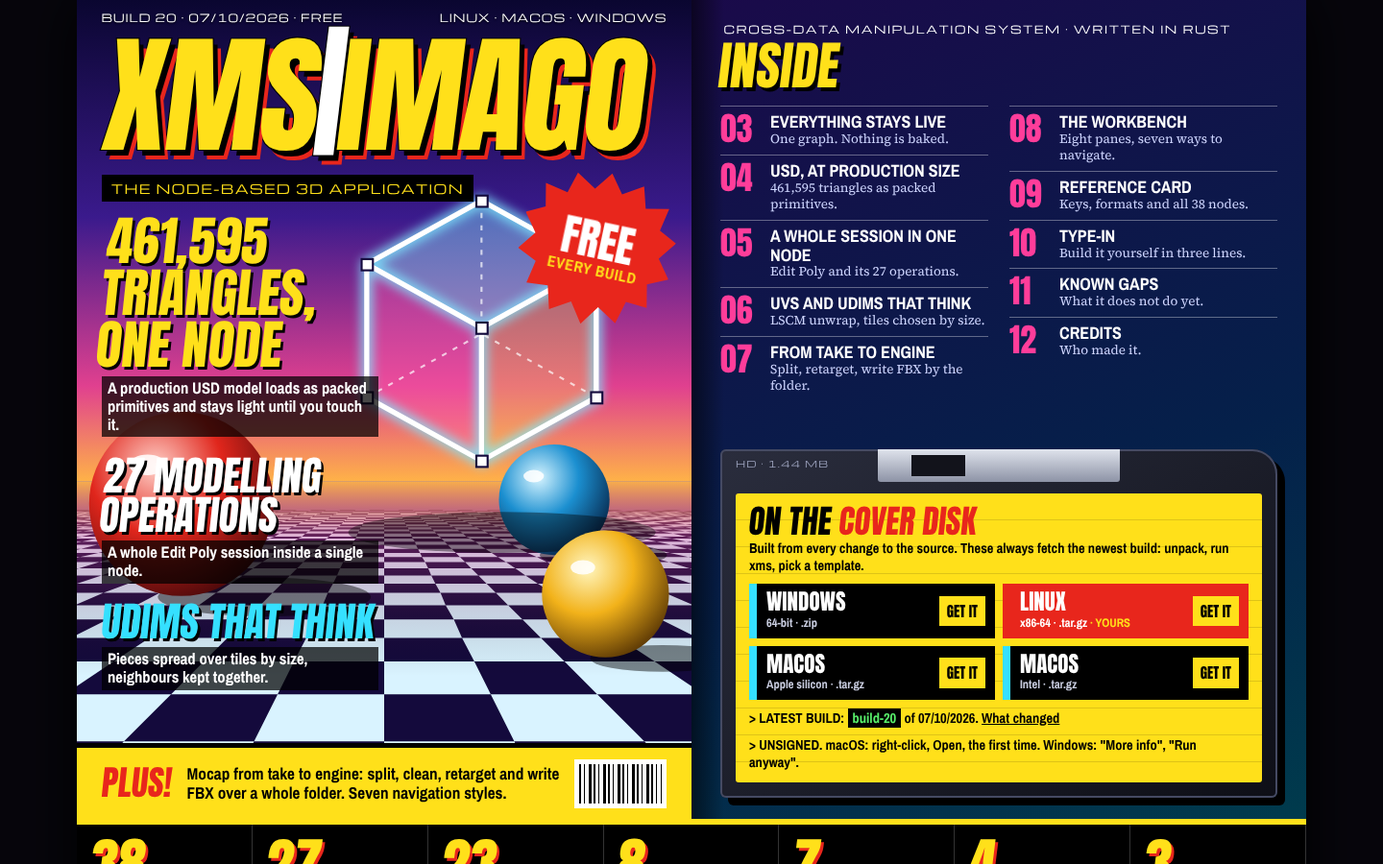
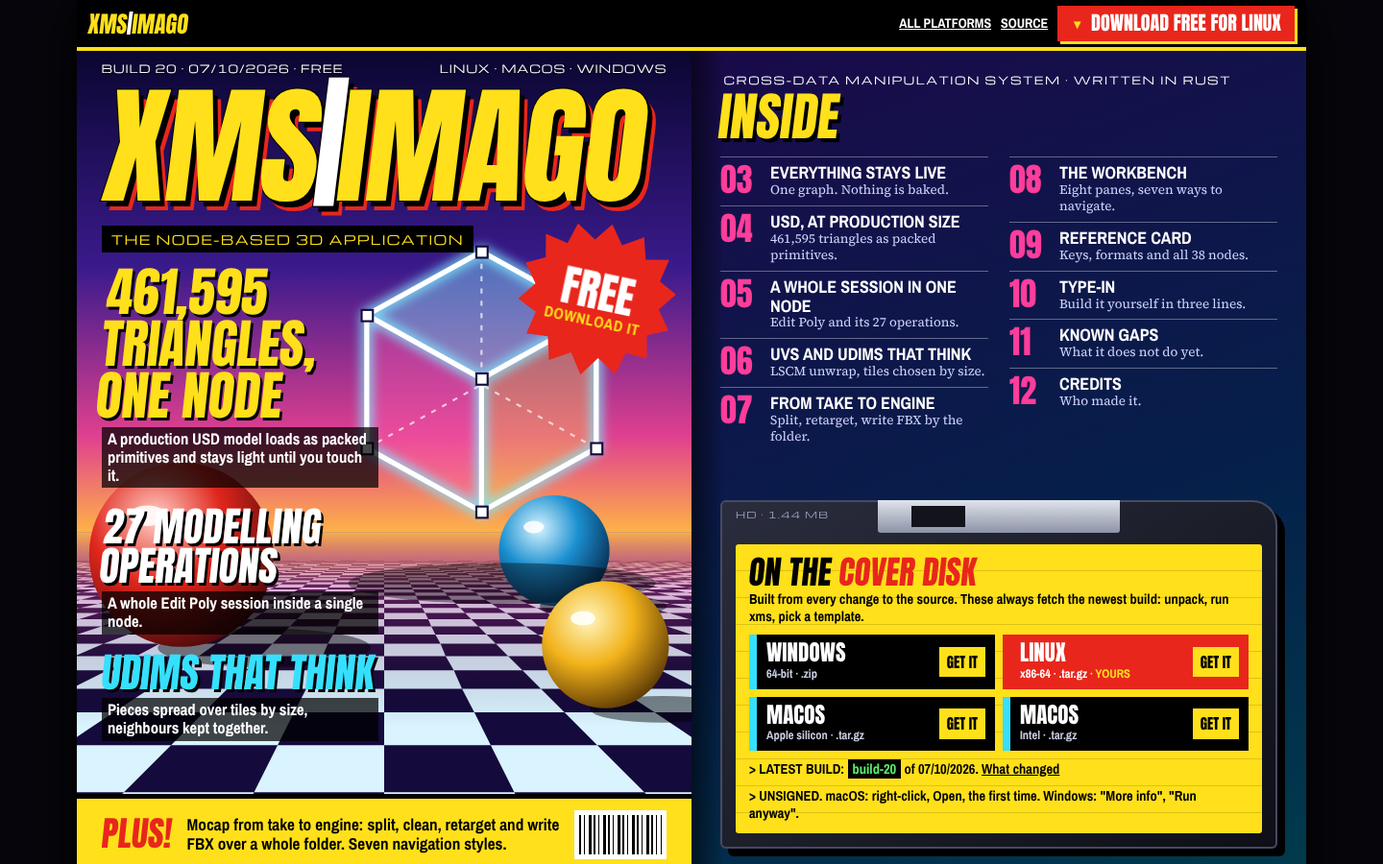
Website: obvious download buttons

diff --git a/site/index.html b/site/index.html
@@ -97,6 +97,42 @@
   .build { font-family: var(--mono); font-size: 18px; line-height: 1.1; margin: 10px 0 0 !important; font-weight: 400 !important; }
   .build b { background: #000; color: var(--green); font-weight: 400; padding: 0 5px; }
 
+
+  /* ── Downloads, where nobody can miss them ── */
+  html { scroll-padding-top: 60px; }
+  .bar { position: sticky; top: 0; z-index: 20; display: flex; align-items: center; gap: 10px; background: #000; border-bottom: 4px solid var(--yellow); padding: 6px 12px; }
+  .bar .name { font-family: var(--display); font-size: 24px; line-height: 1; text-transform: uppercase; color: var(--yellow); text-decoration: none; transform: skewX(-7deg); margin-right: auto; white-space: nowrap; }
+  .bar .name i { font-style: normal; color: #fff; }
+  .bar .also { font-family: var(--narrow); font-weight: 700; font-size: 14px; text-transform: uppercase; color: #fff; white-space: nowrap; }
+  .bar .also:hover { color: var(--yellow); }
+  @media (max-width: 760px) { .bar .also { display: none; } }
+  .big { display: inline-flex; align-items: center; gap: 8px; font-family: var(--display); font-size: 20px; line-height: 1; text-transform: uppercase; text-decoration: none; white-space: nowrap; background: var(--red); color: #fff; padding: 8px 14px 9px; box-shadow: 3px 3px 0 var(--yellow); animation: nudge 2.4s ease-in-out infinite; }
+  .big::before { content: "\25BC"; font-size: 13px; color: var(--yellow); }
+  .big:hover, .big:focus-visible { background: var(--yellow); color: #000; box-shadow: 3px 3px 0 var(--red); outline: none; }
+  .big:hover::before { color: var(--red); }
+  @keyframes nudge { 0%, 86%, 100% { transform: none; } 90% { transform: translateY(-3px); } 94% { transform: translateY(1px); } }
+  @media (prefers-reduced-motion: reduce) { .big { animation: none; } }
+  @media (max-width: 420px) { .bar .name { font-size: 19px; } .big { font-size: 16px; padding: 7px 9px 8px; } }
+
+  .get { background: repeating-linear-gradient(-45deg, #e8261c 0 26px, #d11d14 26px 52px); border-top: 6px solid #000; border-bottom: 6px solid #000; padding: 22px 34px 26px; }
+  .get h2 { font-family: var(--display); font-weight: 400; font-size: clamp(40px, 7vw, 92px); line-height: .9; margin: 0 0 4px; text-transform: uppercase; color: var(--yellow); transform: skewX(-7deg); transform-origin: left; text-shadow: 5px 5px 0 #000; }
+  .get h2 em { font-style: normal; color: #fff; }
+  .get p { font-family: var(--narrow); font-weight: 700; font-size: 18px; margin: 0 0 16px; }
+  .get .row { display: grid; grid-template-columns: repeat(4, minmax(0, 1fr)); gap: 14px; }
+  @media (max-width: 980px) { .get .row { grid-template-columns: repeat(2, minmax(0, 1fr)); } }
+  @media (max-width: 520px) { .get { padding: 20px 16px 22px; } .get .row { grid-template-columns: minmax(0, 1fr); } }
+  .dl.xl { display: flex; flex-direction: column; align-items: stretch; gap: 2px; padding: 12px 14px 14px; border-left: 0; border: 4px solid #000; background: var(--yellow); color: #000; box-shadow: 7px 7px 0 #000; }
+  .dl.xl .os { font-size: 40px; }
+  .dl.xl .what { color: #000; font-size: 15px; }
+  .dl.xl .go { margin-top: 8px; font-size: 24px; text-align: center; background: #000; color: var(--yellow); padding: 8px; }
+  .dl.xl .go::before { content: "\25BC  "; color: var(--red); }
+  .dl.xl:hover, .dl.xl:focus-visible { transform: translate(-3px, -3px); box-shadow: 10px 10px 0 #000; }
+  .dl.xl.yours { order: -1; background: #fff; border-color: #000; outline: 5px solid var(--yellow); }
+  .dl.xl.yours .what { color: #000; } .dl.xl.yours .what::after { content: " · YOUR MACHINE"; color: var(--red); }
+  .dl.xl.yours .go { background: var(--red); color: #fff; } .dl.xl.yours .go::before { color: var(--yellow); }
+  a.burst { text-decoration: none; cursor: pointer; }
+  a.burst:hover { background: #000; }
+
   /* ── The numbers strip ── */
   .stats { display: grid; grid-template-columns: repeat(auto-fit, minmax(130px, 1fr)); background: #000; border-top: 6px solid var(--yellow); border-bottom: 6px solid var(--yellow); }
   .stat { padding: 12px 14px 12px; border-right: 1px solid #333; }
@@ -195,7 +231,15 @@
 <body>
 <div class="mag">
 
-  <section class="open">
+  <nav class="bar" aria-label="Download">
+    <a class="name" href="#top">XMS<i>|</i>Imago</a>
+    <a class="also" href="#get">All platforms</a>
+    <a class="also" href="https://github.com/srlegrand/xms-imago">Source</a>
+    <a class="big" id="main-dl" href="#get">Download free</a>
+  </nav>
+
+
+  <section class="open" id="top">
     <header class="cover">
       <svg class="art" viewBox="0 0 600 800" preserveAspectRatio="xMidYMid slice" aria-hidden="true"><defs><linearGradient id="sky" x1="0" y1="0" x2="0" y2="1"><stop offset="0" stop-color="#0a0630"/><stop offset=".45" stop-color="#3a1a8c"/><stop offset=".8" stop-color="#e0408f"/><stop offset="1" stop-color="#ffb347"/></linearGradient><linearGradient id="haze" x1="0" y1="0" x2="0" y2="1"><stop offset="0" stop-color="#ffb347" stop-opacity=".95"/><stop offset=".3" stop-color="#e0408f" stop-opacity=".35"/><stop offset="1" stop-color="#000" stop-opacity="0"/></linearGradient><radialGradient id="sr" cx=".36" cy=".3" r=".8"><stop offset="0" stop-color="#ffd0c8"/><stop offset=".45" stop-color="#e0261c"/><stop offset="1" stop-color="#3a0508"/></radialGradient><radialGradient id="sg" cx=".36" cy=".3" r=".8"><stop offset="0" stop-color="#fff6c0"/><stop offset=".45" stop-color="#f2b21a"/><stop offset="1" stop-color="#4a2a02"/></radialGradient><radialGradient id="sb" cx=".36" cy=".3" r=".8"><stop offset="0" stop-color="#d6f4ff"/><stop offset=".45" stop-color="#1b8fd0"/><stop offset="1" stop-color="#051a3a"/></radialGradient><filter id="glow" x="-30%" y="-30%" width="160%" height="160%"><feGaussianBlur stdDeviation="5"/></filter></defs><rect width="600" height="471" fill="url(#sky)"/><rect y="470" width="600" height="330" fill="#d9f3ff"/><rect y="470" width="600" height="30" fill="#6a4a9c"/><path fill="#140a3c" d="M-152,922L74,922L138,795L-25,795ZM300,922L526,922L462,795L300,795ZM-188,795L-25,795L46,724L-80,724ZM138,795L300,795L300,724L173,724ZM462,795L625,795L554,724L427,724ZM46,724L173,724L196,678L92,678ZM300,724L427,724L404,678L300,678ZM554,724L680,724L612,678L508,678ZM-12,678L92,678L124,646L36,646ZM196,678L300,678L300,646L212,646ZM404,678L508,678L476,646L388,646ZM612,678L716,678L653,646L564,646ZM-53,646L36,646L71,623L-6,623ZM124,646L212,646L224,623L147,623ZM300,646L388,646L376,623L300,623ZM476,646L564,646L529,623L453,623ZM-82,623L-6,623L30,605L-38,605ZM71,623L147,623L165,605L97,605ZM224,623L300,623L300,605L232,605ZM376,623L453,623L435,605L368,605ZM529,623L606,623L570,605L503,605ZM-105,605L-38,605L-2,591L-63,591ZM30,605L97,605L119,591L58,591ZM165,605L232,605L240,591L179,591ZM300,605L368,605L360,591L300,591ZM435,605L503,605L481,591L421,591ZM570,605L638,605L602,591L542,591ZM-2,591L58,591L81,579L26,579ZM119,591L179,591L191,579L136,579ZM240,591L300,591L300,579L245,579ZM360,591L421,591L409,579L355,579ZM481,591L542,591L519,579L464,579ZM602,591L663,591L628,579L574,579ZM-28,579L26,579L50,570L0,570ZM81,579L136,579L150,570L100,570ZM191,579L245,579L250,570L200,570ZM300,579L355,579L350,570L300,570ZM409,579L464,579L450,570L400,570ZM519,579L574,579L550,570L500,570ZM628,579L683,579L650,570L600,570ZM-50,570L0,570L24,562L-22,562ZM50,570L100,570L116,562L70,562ZM150,570L200,570L208,562L162,562ZM250,570L300,570L300,562L254,562ZM350,570L400,570L392,562L346,562ZM450,570L500,570L484,562L438,562ZM550,570L600,570L576,562L530,562ZM-68,562L-22,562L2,555L-41,555ZM24,562L70,562L87,555L44,555ZM116,562L162,562L172,555L130,555ZM208,562L254,562L257,555L215,555ZM300,562L346,562L343,555L300,555ZM392,562L438,562L428,555L385,555ZM484,562L530,562L513,555L470,555ZM576,562L622,562L598,555L556,555ZM2,555L44,555L62,549L22,549ZM87,555L130,555L141,549L102,549ZM172,555L215,555L221,549L181,549ZM257,555L300,555L300,549L260,549ZM343,555L385,555L379,549L340,549ZM428,555L470,555L459,549L419,549ZM513,555L556,555L538,549L498,549ZM598,555L641,555L618,549L578,549ZM-18,549L22,549L40,544L3,544ZM62,549L102,549L114,544L77,544ZM141,549L181,549L189,544L151,544ZM221,549L260,549L263,544L226,544ZM300,549L340,549L337,544L300,544ZM379,549L419,549L411,544L374,544ZM459,549L498,549L486,544L449,544ZM538,549L578,549L560,544L523,544ZM618,549L657,549L634,544L597,544ZM-34,544L3,544L21,540L-14,540ZM40,544L77,544L91,540L56,540ZM114,544L151,544L160,540L126,540ZM189,544L226,544L230,540L195,540ZM263,544L300,544L300,540L265,540ZM337,544L374,544L370,540L335,540ZM411,544L449,544L440,540L405,540ZM486,544L523,544L509,540L474,540ZM560,544L597,544L579,540L544,540ZM-49,540L-14,540L4,536L-29,536ZM21,540L56,540L70,536L37,536ZM91,540L126,540L135,536L103,536ZM160,540L195,540L201,536L168,536ZM230,540L265,540L267,536L234,536ZM300,540L335,540L333,536L300,536ZM370,540L405,540L399,536L366,536ZM440,540L474,540L465,536L432,536ZM509,540L544,540L530,536L497,536ZM579,540L614,540L596,536L563,536ZM4,536L37,536L51,532L20,532ZM70,536L103,536L113,532L82,532ZM135,536L168,536L175,532L144,532ZM201,536L234,536L238,532L207,532ZM267,536L300,536L300,532L269,532ZM333,536L366,536L362,532L331,532ZM399,536L432,536L425,532L393,532ZM465,536L497,536L487,532L456,532ZM530,536L563,536L549,532L518,532ZM596,536L629,536L611,532L580,532ZM-11,532L20,532L34,529L5,529ZM51,532L82,532L93,529L64,529ZM113,532L144,532L152,529L123,529ZM175,532L207,532L211,529L182,529ZM238,532L269,532L270,529L241,529ZM300,532L331,532L330,529L300,529ZM362,532L393,532L389,529L359,529ZM425,532L456,532L448,529L418,529ZM487,532L518,532L507,529L477,529ZM549,532L580,532L566,529L536,529ZM611,532L643,532L625,529L595,529ZM-25,529L5,529L19,526L-9,526ZM34,529L64,529L75,526L47,526ZM93,529L123,529L131,526L103,526ZM152,529L182,529L188,526L159,526ZM211,529L241,529L244,526L216,526ZM270,529L300,529L300,526L272,526ZM330,529L359,529L356,526L328,526ZM389,529L418,529L412,526L384,526ZM448,529L477,529L469,526L441,526ZM507,529L536,529L525,526L497,526ZM566,529L595,529L581,526L553,526ZM-37,526L-9,526L5,524L-22,524ZM19,526L47,526L59,524L32,524ZM75,526L103,526L112,524L86,524ZM131,526L159,526L166,524L139,524ZM188,526L216,526L220,524L193,524ZM244,526L272,526L273,524L246,524ZM300,526L328,526L327,524L300,524ZM356,526L384,526L380,524L354,524ZM412,526L441,526L434,524L407,524ZM469,526L497,526L488,524L461,524ZM525,526L553,526L541,524L514,524ZM581,526L609,526L595,524L568,524ZM5,524L32,524L44,521L18,521ZM59,524L86,524L95,521L69,521ZM112,524L139,524L146,521L121,521ZM166,524L193,524L198,521L172,521ZM220,524L246,524L249,521L223,521ZM273,524L300,524L300,521L274,521ZM327,524L354,524L351,521L326,521ZM380,524L407,524L402,521L377,521ZM434,524L461,524L454,521L428,521ZM488,524L514,524L505,521L479,521ZM541,524L568,524L556,521L531,521ZM595,524L622,524L607,521L582,521ZM-7,521L18,521L30,519L6,519ZM44,521L69,521L79,519L55,519ZM95,521L121,521L128,519L104,519ZM146,521L172,521L177,519L153,519ZM198,521L223,521L226,519L202,519ZM249,521L274,521L275,519L251,519ZM300,521L326,521L325,519L300,519ZM351,521L377,521L374,519L349,519ZM402,521L428,521L423,519L398,519ZM454,521L479,521L472,519L447,519ZM505,521L531,521L521,519L496,519ZM556,521L582,521L570,519L545,519ZM607,521L633,521L619,519L594,519ZM-19,519L6,519L18,517L-6,517ZM30,519L55,519L65,517L41,517ZM79,519L104,519L112,517L88,517ZM128,519L153,519L159,517L135,517ZM177,519L202,519L206,517L182,517ZM226,519L251,519L253,517L229,517ZM275,519L300,519L300,517L276,517ZM325,519L349,519L347,517L324,517ZM374,519L398,519L394,517L371,517ZM423,519L447,519L441,517L418,517ZM472,519L496,519L488,517L465,517ZM521,519L545,519L535,517L512,517ZM570,519L594,519L582,517L559,517ZM-29,517L-6,517L6,515L-17,515ZM18,517L41,517L51,515L29,515ZM65,517L88,517L97,515L74,515ZM112,517L135,517L142,515L119,515ZM159,517L182,517L187,515L164,515ZM206,517L229,517L232,515L210,515ZM253,517L276,517L277,515L255,515ZM300,517L324,517L323,515L300,515ZM347,517L371,517L368,515L345,515ZM394,517L418,517L413,515L390,515ZM441,517L465,517L458,515L436,515ZM488,517L512,517L503,515L481,515ZM535,517L559,517L549,515L526,515ZM582,517L606,517L594,515L571,515ZM-39,515L-17,515L-5,514L-26,514ZM6,515L29,515L39,514L17,514ZM51,515L74,515L82,514L61,514ZM97,515L119,515L126,514L104,514ZM142,515L164,515L169,514L148,514ZM187,515L210,515L213,514L191,514ZM232,515L255,515L256,514L235,514ZM277,515L300,515L300,514L278,514ZM323,515L345,515L344,514L322,514ZM368,515L390,515L387,514L365,514ZM413,515L436,515L431,514L409,514ZM458,515L481,515L474,514L452,514ZM503,515L526,515L518,514L496,514ZM549,515L571,515L561,514L539,514ZM594,515L617,515L605,514L583,514ZM-5,514L17,514L27,512L6,512ZM39,514L61,514L69,512L48,512ZM82,514L104,514L111,512L90,512ZM126,514L148,514L153,512L132,512ZM169,514L191,514L195,512L174,512ZM213,514L235,514L237,512L216,512ZM256,514L278,514L279,512L258,512ZM300,514L322,514L321,512L300,512ZM344,514L365,514L363,512L342,512ZM387,514L409,514L405,512L384,512ZM431,514L452,514L447,512L426,512ZM474,514L496,514L489,512L468,512ZM518,514L539,514L531,512L510,512ZM561,514L583,514L573,512L552,512ZM605,514L626,514L615,512L594,512ZM-15,512L6,512L17,510L-4,510ZM27,512L48,512L57,510L37,510ZM69,512L90,512L98,510L77,510ZM111,512L132,512L138,510L118,510ZM153,512L174,512L179,510L158,510ZM195,512L216,512L219,510L199,510ZM237,512L258,512L260,510L239,510ZM279,512L300,512L300,510L280,510ZM321,512L342,512L340,510L320,510ZM363,512L384,512L381,510L361,510ZM405,512L426,512L421,510L401,510ZM447,512L468,512L462,510L442,510ZM489,512L510,512L502,510L482,510ZM531,512L552,512L543,510L523,510ZM573,512L594,512L583,510L563,510ZM615,512L635,512L624,510L604,510ZM-24,510L-4,510L7,509L-13,509ZM17,510L37,510L46,509L26,509ZM57,510L77,510L85,509L65,509ZM98,510L118,510L124,509L105,509ZM138,510L158,510L163,509L144,509ZM179,510L199,510L202,509L183,509ZM219,510L239,510L241,509L222,509ZM260,510L280,510L280,509L261,509ZM300,510L320,510L320,509L300,509ZM340,510L361,510L359,509L339,509ZM381,510L401,510L398,509L378,509ZM421,510L442,510L437,509L417,509ZM462,510L482,510L476,509L456,509ZM502,510L523,510L515,509L495,509ZM543,510L563,510L554,509L535,509ZM583,510L604,510L593,509L574,509ZM-32,509L-13,509L-3,508L-21,508ZM7,509L26,509L35,508L16,508ZM46,509L65,509L73,508L54,508ZM85,509L105,509L111,508L92,508ZM124,509L144,509L149,508L130,508ZM163,509L183,509L187,508L168,508ZM202,509L222,509L224,508L205,508ZM241,509L261,509L262,508L243,508ZM280,509L300,509L300,508L281,508ZM320,509L339,509L338,508L319,508ZM359,509L378,509L376,508L357,508ZM398,509L417,509L413,508L395,508ZM437,509L456,509L451,508L432,508ZM476,509L495,509L489,508L470,508ZM515,509L535,509L527,508L508,508ZM554,509L574,509L565,508L546,508ZM593,509L613,509L603,508L584,508ZM-3,508L16,508L25,507L7,507ZM35,508L54,508L62,507L44,507ZM73,508L92,508L99,507L80,507ZM111,508L130,508L135,507L117,507ZM149,508L168,508L172,507L154,507ZM187,508L205,508L208,507L190,507ZM224,508L243,508L245,507L227,507ZM262,508L281,508L282,507L263,507ZM300,508L319,508L318,507L300,507ZM338,508L357,508L355,507L337,507ZM376,508L395,508L392,507L373,507ZM413,508L432,508L428,507L410,507ZM451,508L470,508L465,507L446,507ZM489,508L508,508L501,507L483,507ZM527,508L546,508L538,507L520,507ZM565,508L584,508L575,507L556,507ZM603,508L621,508L611,507L593,507ZM-11,507L7,507L16,505L-2,505ZM25,507L44,507L52,505L34,505ZM62,507L80,507L87,505L69,505ZM99,507L117,507L123,505L105,505ZM135,507L154,507L158,505L140,505ZM172,507L190,507L194,505L176,505ZM208,507L227,507L229,505L211,505ZM245,507L263,507L265,505L247,505ZM282,507L300,507L300,505L282,505ZM318,507L337,507L335,505L318,505ZM355,507L373,507L371,505L353,505ZM392,507L410,507L406,505L389,505ZM428,507L446,507L442,505L424,505ZM465,507L483,507L477,505L460,505ZM501,507L520,507L513,505L495,505ZM538,507L556,507L548,505L531,505ZM575,507L593,507L584,505L566,505ZM611,507L630,507L619,505L602,505ZM-19,505L-2,505L7,504L-10,504ZM16,505L34,505L42,504L25,504ZM52,505L69,505L76,504L59,504ZM87,505L105,505L111,504L93,504ZM123,505L140,505L145,504L128,504ZM158,505L176,505L179,504L162,504ZM194,505L211,505L214,504L197,504ZM229,505L247,505L248,504L231,504ZM265,505L282,505L283,504L266,504ZM300,505L318,505L317,504L300,504ZM335,505L353,505L352,504L334,504ZM371,505L389,505L386,504L369,504ZM406,505L424,505L421,504L403,504ZM442,505L460,505L455,504L438,504ZM477,505L495,505L489,504L472,504ZM513,505L531,505L524,504L507,504ZM548,505L566,505L558,504L541,504ZM584,505L602,505L593,504L575,504ZM-27,504L-10,504L-1,503L-18,503ZM7,504L25,504L32,503L16,503ZM42,504L59,504L66,503L49,503ZM76,504L93,504L99,503L83,503ZM111,504L128,504L133,503L116,503ZM145,504L162,504L166,503L150,503ZM179,504L197,504L200,503L183,503ZM214,504L231,504L233,503L216,503ZM248,504L266,504L267,503L250,503ZM283,504L300,504L300,503L283,503ZM317,504L334,504L333,503L317,503ZM352,504L369,504L367,503L350,503ZM386,504L403,504L400,503L384,503ZM421,504L438,504L434,503L417,503ZM455,504L472,504L467,503L450,503ZM489,504L507,504L501,503L484,503ZM524,504L541,504L534,503L517,503ZM558,504L575,504L568,503L551,503ZM593,504L610,504L601,503L584,503ZM-1,503L16,503L24,502L8,502ZM32,503L49,503L56,502L40,502ZM66,503L83,503L89,502L72,502ZM99,503L116,503L121,502L105,502ZM133,503L150,503L154,502L138,502ZM166,503L183,503L186,502L170,502ZM200,503L216,503L219,502L202,502ZM233,503L250,503L251,502L235,502ZM267,503L283,503L284,502L268,502ZM300,503L317,503L316,502L300,502ZM333,503L350,503L349,502L332,502ZM367,503L384,503L381,502L365,502ZM400,503L417,503L414,502L398,502ZM434,503L450,503L446,502L430,502ZM467,503L484,503L479,502L462,502ZM501,503L517,503L511,502L495,502ZM534,503L551,503L544,502L528,502ZM568,503L584,503L576,502L560,502ZM601,503L618,503L609,502L592,502ZM-9,502L8,502L16,502L0,502ZM24,502L40,502L47,502L31,502ZM56,502L72,502L79,502L63,502ZM89,502L105,502L110,502L95,502ZM121,502L138,502L142,502L126,502ZM154,502L170,502L174,502L158,502ZM186,502L202,502L205,502L189,502ZM219,502L235,502L237,502L221,502ZM251,502L268,502L268,502L253,502ZM284,502L300,502L300,502L284,502ZM316,502L332,502L332,502L316,502ZM349,502L365,502L363,502L347,502ZM381,502L398,502L395,502L379,502ZM414,502L430,502L426,502L411,502ZM446,502L462,502L458,502L442,502ZM479,502L495,502L490,502L474,502ZM511,502L528,502L521,502L505,502ZM544,502L560,502L553,502L537,502ZM576,502L592,502L584,502L569,502ZM609,502L625,502L616,502L600,502ZM-16,502L0,502L8,501L-8,501ZM16,502L31,502L38,501L23,501ZM47,502L63,502L69,501L54,501ZM79,502L95,502L100,501L85,501ZM110,502L126,502L131,501L115,501ZM142,502L158,502L162,501L146,501ZM174,502L189,502L192,501L177,501ZM205,502L221,502L223,501L208,501ZM237,502L253,502L254,501L238,501ZM268,502L284,502L285,501L269,501ZM300,502L316,502L315,501L300,501ZM332,502L347,502L346,501L331,501ZM363,502L379,502L377,501L362,501ZM395,502L411,502L408,501L392,501ZM426,502L442,502L438,501L423,501ZM458,502L474,502L469,501L454,501ZM490,502L505,502L500,501L485,501ZM521,502L537,502L531,501L515,501ZM553,502L569,502L562,501L546,501ZM584,502L600,502L592,501L577,501ZM-23,501L-8,501L0,500L-15,500ZM8,501L23,501L30,500L15,500ZM38,501L54,501L60,500L45,500ZM69,501L85,501L90,500L75,500ZM100,501L115,501L120,500L105,500ZM131,501L146,501L150,500L135,500ZM162,501L177,501L180,500L165,500ZM192,501L208,501L210,500L195,500ZM223,501L238,501L240,500L225,500ZM254,501L269,501L270,500L255,500ZM285,501L300,501L300,500L285,500ZM315,501L331,501L330,500L315,500ZM346,501L362,501L360,500L345,500ZM377,501L392,501L390,500L375,500ZM408,501L423,501L420,500L405,500ZM438,501L454,501L450,500L435,500ZM469,501L485,501L480,500L465,500ZM500,501L515,501L510,500L495,500ZM531,501L546,501L540,500L525,500ZM562,501L577,501L570,500L555,500ZM592,501L608,501L600,500L585,500ZM0,500L15,500L22,499L8,499ZM30,500L45,500L52,499L37,499ZM60,500L75,500L81,499L66,499ZM90,500L105,500L110,499L96,499ZM120,500L135,500L139,499L125,499ZM150,500L165,500L169,499L154,499ZM180,500L195,500L198,499L183,499ZM210,500L225,500L227,499L212,499ZM240,500L255,500L256,499L242,499ZM270,500L285,500L285,499L271,499ZM300,500L315,500L315,499L300,499ZM330,500L345,500L344,499L329,499ZM360,500L375,500L373,499L358,499ZM390,500L405,500L402,499L388,499ZM420,500L435,500L431,499L417,499ZM450,500L465,500L461,499L446,499ZM480,500L495,500L490,499L475,499ZM510,500L525,500L519,499L504,499ZM540,500L555,500L548,499L534,499ZM570,500L585,500L578,499L563,499ZM600,500L615,500L607,499L592,499ZM-7,499L8,499L15,498L1,498ZM22,499L37,499L44,498L29,498ZM52,499L66,499L72,498L58,498ZM81,499L96,499L101,498L86,498ZM110,499L125,499L129,498L115,498ZM139,499L154,499L158,498L143,498ZM169,499L183,499L186,498L172,498ZM198,499L212,499L215,498L200,498ZM227,499L242,499L243,498L229,498ZM256,499L271,499L272,498L257,498ZM285,499L300,499L300,498L286,498ZM315,499L329,499L328,498L314,498ZM344,499L358,499L357,498L343,498ZM373,499L388,499L385,498L371,498ZM402,499L417,499L414,498L400,498ZM431,499L446,499L442,498L428,498ZM461,499L475,499L471,498L457,498ZM490,499L504,499L499,498L485,498ZM519,499L534,499L528,498L514,498ZM548,499L563,499L556,498L542,498ZM578,499L592,499L585,498L571,498ZM607,499L621,499L613,498L599,498ZM-13,498L1,498L8,498L-6,498ZM15,498L29,498L36,498L22,498ZM44,498L58,498L64,498L50,498ZM72,498L86,498L91,498L78,498ZM101,498L115,498L119,498L105,498ZM129,498L143,498L147,498L133,498ZM158,498L172,498L175,498L161,498ZM186,498L200,498L203,498L189,498ZM215,498L229,498L230,498L217,498ZM243,498L257,498L258,498L244,498ZM272,498L286,498L286,498L272,498ZM300,498L314,498L314,498L300,498ZM328,498L343,498L342,498L328,498ZM357,498L371,498L370,498L356,498ZM385,498L400,498L397,498L383,498ZM414,498L428,498L425,498L411,498ZM442,498L457,498L453,498L439,498ZM471,498L485,498L481,498L467,498ZM499,498L514,498L509,498L495,498ZM528,498L542,498L536,498L522,498ZM556,498L571,498L564,498L550,498ZM585,498L599,498L592,498L578,498Z"/><rect y="470" width="600" height="190" fill="url(#haze)"/><ellipse cx="514" cy="542" rx="62" ry="11" fill="#000" opacity=".45"/><circle cx="466" cy="488" r="54" fill="url(#sb)"/><ellipse cx="446" cy="465" rx="10" ry="6" fill="#fff" opacity=".85"/><ellipse cx="415" cy="520" rx="150" ry="20" fill="#000" opacity=".4"/><polygon points="395,196 283,258 395,320 507,258" fill="#7fe9ff" opacity=".42"/><polygon points="283,258 395,320 395,450 283,388" fill="#ff5fb0" opacity=".38"/><polygon points="395,320 507,258 507,388 395,450" fill="#ffe14a" opacity=".34"/><g stroke="#7fe9ff" stroke-width="12" stroke-linecap="round" filter="url(#glow)" opacity=".8"><line x1="395" y1="196" x2="283" y2="258"/><line x1="395" y1="196" x2="507" y2="258"/><line x1="283" y1="258" x2="395" y2="320"/><line x1="507" y1="258" x2="395" y2="320"/><line x1="283" y1="258" x2="283" y2="388"/><line x1="395" y1="320" x2="395" y2="450"/><line x1="507" y1="258" x2="507" y2="388"/><line x1="283" y1="388" x2="395" y2="450"/><line x1="507" y1="388" x2="395" y2="450"/></g><g stroke="#fff" stroke-width="2" stroke-dasharray="5 7" opacity=".7"><line x1="395" y1="196" x2="395" y2="326"/><line x1="283" y1="388" x2="395" y2="326"/><line x1="507" y1="388" x2="395" y2="326"/></g><g stroke="#fff" stroke-width="5" stroke-linecap="round"><line x1="395" y1="196" x2="283" y2="258"/><line x1="395" y1="196" x2="507" y2="258"/><line x1="283" y1="258" x2="395" y2="320"/><line x1="507" y1="258" x2="395" y2="320"/><line x1="283" y1="258" x2="283" y2="388"/><line x1="395" y1="320" x2="395" y2="450"/><line x1="507" y1="258" x2="507" y2="388"/><line x1="283" y1="388" x2="395" y2="450"/><line x1="507" y1="388" x2="395" y2="450"/></g><g fill="#fff" stroke="#140a3c" stroke-width="2"><rect x="390" y="191" width="11" height="11"/><rect x="278" y="253" width="11" height="11"/><rect x="390" y="315" width="11" height="11"/><rect x="502" y="253" width="11" height="11"/><rect x="278" y="383" width="11" height="11"/><rect x="390" y="445" width="11" height="11"/><rect x="502" y="383" width="11" height="11"/></g><ellipse cx="183" cy="583" rx="104" ry="19" fill="#000" opacity=".45"/><circle cx="102" cy="492" r="90" fill="url(#sr)"/><ellipse cx="69" cy="454" rx="18" ry="10" fill="#fff" opacity=".85"/><ellipse cx="572" cy="643" rx="71" ry="13" fill="#000" opacity=".45"/><circle cx="516" cy="580" r="62" fill="url(#sg)"/><ellipse cx="494" cy="554" rx="12" ry="7" fill="#fff" opacity=".85"/></svg>
       <div class="topline"><span id="issue">Latest build · Free</span><span>Linux · macOS · Windows</span></div>
@@ -206,7 +250,7 @@
         <div class="line"><b>27 modelling operations</b><span>A whole Edit Poly session inside a single node.</span></div>
         <div class="line c"><b>UDIMs that think</b><span>Pieces spread over tiles by size, neighbours kept together.</span></div>
       </div>
-      <div class="burst"><span>Free<small>EVERY BUILD</small></span></div>
+      <a class="burst" href="#get"><span>Free<small>DOWNLOAD IT</small></span></a>
       <div class="band"><b>Plus!</b><span>Mocap from take to engine: split, clean, retarget and write FBX over a whole folder. Seven navigation styles.</span><i class="barcode"></i></div>
     </header>
 
@@ -240,6 +284,17 @@
           <p class="build">&gt; UNSIGNED. macOS: right-click, Open, the first time. Windows: "More info", "Run anyway".</p>
         </div>
       </aside>
+    </div>
+  </section>
+
+  <section class="get" id="get">
+    <h2>Download it <em>free</em></h2>
+    <p>The newest build for your machine, straight from the cover disk. Unpack, run xms, pick a template.</p>
+    <div class="row">
+      <a class="dl xl" data-os="windows" href="https://github.com/srlegrand/xms-imago/releases/latest/download/xms-windows-x86_64.zip"><span class="os">Windows</span><span class="what">64-bit · .zip</span><span class="go">Download</span></a>
+      <a class="dl xl" data-os="linux" href="https://github.com/srlegrand/xms-imago/releases/latest/download/xms-linux-x86_64.tar.gz"><span class="os">Linux</span><span class="what">x86-64 · .tar.gz</span><span class="go">Download</span></a>
+      <a class="dl xl" data-os="mac-arm" href="https://github.com/srlegrand/xms-imago/releases/latest/download/xms-macos-arm64.tar.gz"><span class="os">macOS</span><span class="what">Apple silicon · .tar.gz</span><span class="go">Download</span></a>
+      <a class="dl xl" data-os="mac-intel" href="https://github.com/srlegrand/xms-imago/releases/latest/download/xms-macos-x86_64.tar.gz"><span class="os">macOS</span><span class="what">Intel · .tar.gz</span><span class="go">Download</span></a>
     </div>
   </section>
 
@@ -547,6 +602,17 @@
     </div>
   </article>
 
+  <section class="get">
+    <h2>Got this far? <em>Get it.</em></h2>
+    <p>Free builds for Linux, macOS and Windows, made from every change to the source.</p>
+    <div class="row">
+      <a class="dl xl" data-os="windows" href="https://github.com/srlegrand/xms-imago/releases/latest/download/xms-windows-x86_64.zip"><span class="os">Windows</span><span class="what">64-bit · .zip</span><span class="go">Download</span></a>
+      <a class="dl xl" data-os="linux" href="https://github.com/srlegrand/xms-imago/releases/latest/download/xms-linux-x86_64.tar.gz"><span class="os">Linux</span><span class="what">x86-64 · .tar.gz</span><span class="go">Download</span></a>
+      <a class="dl xl" data-os="mac-arm" href="https://github.com/srlegrand/xms-imago/releases/latest/download/xms-macos-arm64.tar.gz"><span class="os">macOS</span><span class="what">Apple silicon · .tar.gz</span><span class="go">Download</span></a>
+      <a class="dl xl" data-os="mac-intel" href="https://github.com/srlegrand/xms-imago/releases/latest/download/xms-macos-x86_64.tar.gz"><span class="os">macOS</span><span class="what">Intel · .tar.gz</span><span class="go">Download</span></a>
+    </div>
+  </section>
+
   <footer>
     <span>XMS: Cross-data Manipulation System</span>
     <span><a href="https://github.com/srlegrand/xms-imago">Source</a> · <a href="https://github.com/srlegrand/xms-imago/tree/main/docs">Manual</a> · <a href="https://github.com/srlegrand/xms-imago/releases">All builds</a> · <a href="https://github.com/srlegrand/xms-imago/issues">Report a problem</a></span>
@@ -560,7 +626,13 @@
     var os = /Win/i.test(platform) || /Windows/i.test(ua) ? "windows"
            : /Mac/i.test(platform) || /Macintosh/i.test(ua) ? "mac"
            : /Linux|X11/i.test(platform + ua) && !/Android/i.test(ua) ? "linux" : "";
-    function mark(key) { var el = document.querySelector('.dl[data-os="' + key + '"]'); if (el) el.classList.add("yours"); }
+    function mark(key) {
+      var all = document.querySelectorAll('.dl[data-os="' + key + '"]');
+      for (var i = 0; i < all.length; i++) all[i].classList.add("yours");
+      // The button in the bar downloads the build for this machine.
+      var names = { "windows": "Windows", "linux": "Linux", "mac-arm": "macOS", "mac-intel": "macOS (Intel)" }, main = document.getElementById("main-dl");
+      if (all.length && main) { main.href = all[0].href; main.textContent = "Download free for " + names[key]; }
+    }
     if (os === "mac") {
       // Browsers do not say which processor a Mac has, except through this.
       if (navigator.userAgentData && navigator.userAgentData.getHighEntropyValues) {

diff --git a/docs/releases.md b/docs/releases.md
@@ -29,7 +29,7 @@ On Ubuntu or Debian, first:
 
 The page at https://srlegrand.github.io/xms-imago/ is the `site/` folder of the repository, published by `.github/workflows/pages.yml` on every push to `main` that touches the site, the screenshots in `docs/` or the artwork in `assets/`.
 
-Its download buttons point at `releases/latest/download/<file>`, so they always fetch the newest build without the page being touched. The page also names the newest build, from GitHub's public record of it.
+The downloads are in four places: a bar that stays at the top of the window, whose button fetches the build for the visitor's machine, a band of four large buttons under the cover, the cover disk, and a second band at the end. Its download buttons point at `releases/latest/download/<file>`, so they always fetch the newest build without the page being touched. The page also names the newest build, from GitHub's public record of it.
 
 The page is laid out as a 3D magazine of the 1990s: a cover, a contents page with the downloads on a cover disk, then a double page in its own colours for each area of the program, a reference card with the keys, the file formats and all 38 nodes, the build instructions as a type-in listing, and the known gaps. Its fonts are in `site/fonts/` and are served with it.
 
